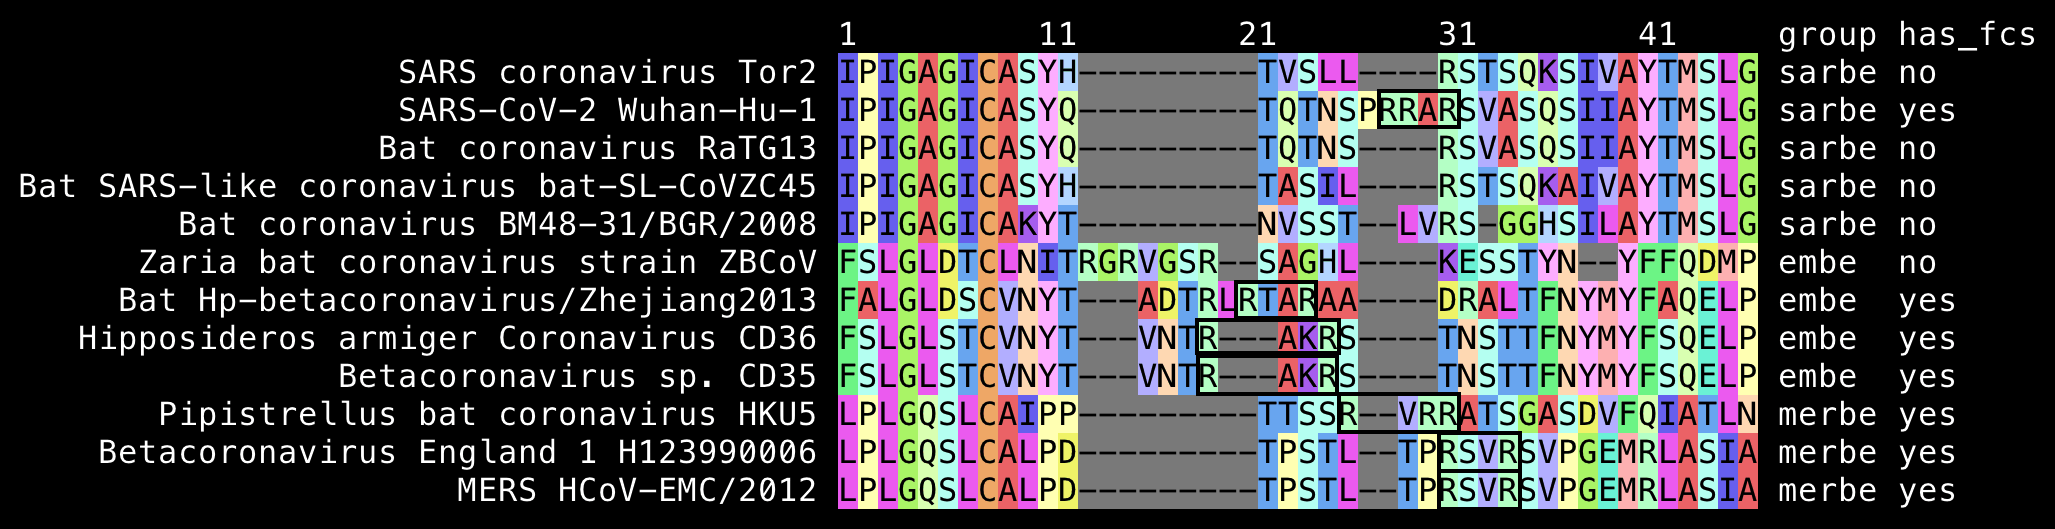
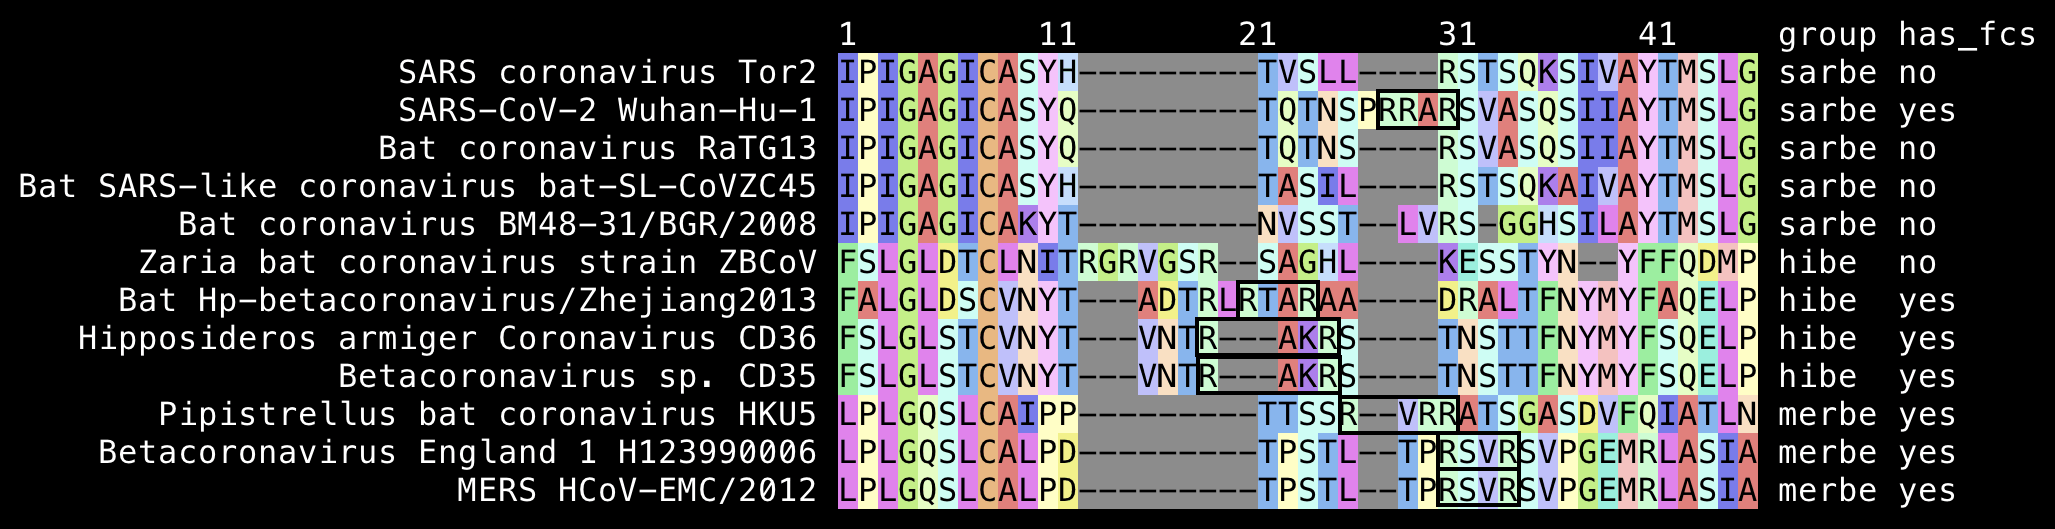
a

Changed region(s): [[0.4049, 0.0907, 0.9032, 0.9679], [0.872, 0.4839, 0.9032, 0.5142]]

diff --git a/fleming.html b/fleming.html
@@ -273,31 +273,37 @@ X-squared = 192.98, df = 1, p-value &lt; 2.2e-16
 <div class="width11">
 <img src="i/fleming-vax.png">
 </div>
-<p>There were 8 cases out of 17,411 people in the vaccine group and 162 cases out of 17,511 people in the placebo group, so common sense should've dictated that the difference between the groups was statistically significant, and Fleming should've noticed there was something wrong with his calculation because he only got a p-value of about 0.24.</p>
-<p>His contingency matrix has two columns labeled <span class="quote">&quot;observed&quot;</span> and <span class="quote">&quot;expected&quot;</span>, where the <span class="quote">&quot;observed&quot;</span> column shows the number of people with no case, even though I don't understand how he calculated the <span class="quote">&quot;expected&quot;</span> column.</p>
-<p>However the proper way to make the contingency matrix would've been to have one column for number of people with a COVID case and another column for the number of people with no COVID case, which gave me a p-value of about 9e-32 here:</p>
-<pre>cases=c(8,162);people=c(17411,17511)
-m=matrix(c(cases,people-cases),2)
-colnames(m)=c(&quot;case&quot;,&quot;no_case&quot;)
-rownames(m)=c(&quot;vaccine&quot;,&quot;placebo&quot;)
-m
-#         case no_case
-# vaccine    8   17403
-# placebo  162   17349
+<p>There were 8 cases out of 17,411 people in the vaccine group and 162 cases out of 17,511 people in the placebo group, so common sense should've dictated that the difference between the groups was statistically significant, and Fleming should've noticed that there was something wrong with his calculation because he only got a p-value of about 0.24.</p>
+<p>In his contingency matrix the <span class="quote">&quot;observed&quot;</span> column shows the number of people with no case, or for example <code>17411-8</code> = 17403 for Pfizer. However I don't understand how he calculated the <span class="quote">&quot;expected&quot;</span> column. The numbers in parentheses show the result of <code>rowSums(m)%*%t(colSums(m))/sum(m)</code> (for example <code>34652*34752/69503</code> = 17326.25 for the top left square).</p>
+<p>However the proper way to make the contingency matrix would've been to have one column for the number of people with a COVID case and another column for the number of people with no COVID case. It gave me a p-value of about 9e-32 here:</p>
+<pre>&gt; cases=c(8,162);people=c(17411,17511)
+&gt; m=cbind(case=cases,no_case=people-cases)
+&gt; rownames(m)=c(&quot;Pfizer&quot;,&quot;placebo&quot;)
+&gt; m
+        case no_case
+Pfizer     8   17403
+placebo  162   17349
+&gt; chisq.test(m) # p-value shown as `&lt;2.2e-16` due to limit of floating point precision
+  Pearson&#39;s Chi-squared test with Yates&#39; continuity correction
 
-chisq.test(m) # p-value shown as `&lt;2.2e-16` due to limit of floating point precision
-#
-#   Pearson&#39;s Chi-squared test with Yates&#39; continuity correction
-#
-# data:  m
-# X-squared = 137.5, df = 1, p-value &lt;2.2e-16
+data:  m
+X-squared = 137.5, df = 1, p-value &lt; 2.2e-16
 
-.Machine$double.eps # smallest positive float x where 1+x!=1
+&gt; .Machine$double.eps # smallest positive float `x` where `1+x!=1`
 # [1] 2.220446e-16
-
-chisq.test(m)$p.value # real p-value is much lower than 2.2e-16
-# 9.395097e-32</pre>
-<p>Kevin McCairn also got a similar p-value when he used MATLAB to do a chi-squared test (the reason why McCairn said he got a lower p-value than me was because my p-value was shown as 2.2e-16 by R even though it was actually about 9e-32 which was similar to McCairn's result): [<a href="https://x.com/NestCommander/status/1882185862257242263">https://x.com/NestCommander/status/1882185862257242263</a>]</p>
+&gt; chisq.test(m)$p.value # p-value is much lower than 2.2e-16
+[1] 9.395097e-32
+&gt; expected=rowSums(m)%*%t(colSums(m))/sum(m)
+&gt; expected
+        case  no_case
+[1,] 84.7566 17326.24
+[2,] 85.2434 17425.76
+&gt; sum((m-expected)^2/expected) # manual calculation without correction
+[1] 139.3046
+&gt; chisq.test(m,correct=F)$stat # matches manual calculation
+X-squared
+ 139.3046</pre>
+<p>Kevin McCairn also got a similar p-value when he used MATLAB to do a chi-squared test (but the reason why McCairn said he got a lower p-value than me was because my p-value was shown as 2.2e-16 by R even though it was actually about 9e-32 which was similar to McCairn's result): [<a href="https://x.com/NestCommander/status/1882185862257242263">https://x.com/NestCommander/status/1882185862257242263</a>]</p>
 <blockquote>
 <p>Richard I'm not following the logic, not that I trust Pfizer data, but the appropriate use of the Chi-squared in the tables above would be calculated as follows (MATLAB code below), I get a smaller P Value than Henjin, but I did no post-hoc corrections as it's only a 2x2 contingency table, and the result is highly significant.</p>
 <pre>% Data
@@ -349,7 +355,7 @@ P=7.89×10−32</pre>
 <div class="width7">
 <img src="i/fleming-prra-2.png">
 </div>
-<p>Many merbecoviruses like MERS and HKU5 also have a furin cleavage site at the S1/S2 junction. Hibecoviruses are a small subgenus of betacoronaviruses that are the closest subgenus to sarbecoviruses. I believe there are currently only 4 published hibecovirus sequences (Hp-betacoronavirus/Zhejiang2013, Zaria bat coronavirus strain ZBCoV, CD35, and CD36), but all of them except ZBCoV have an FCS at the S1/S2 junction:</p>
+<p>Many merbecoviruses like MERS and HKU5 also have a furin cleavage site at the S1/S2 junction. The closest relative of sarbecoviruses are hibecoviruses, which are a small subgenus of betacoronaviruses that I believe currently includes only 4 published virus sequences (which are Hp-betacoronavirus/Zhejiang2013, Zaria bat coronavirus ZBCoV, CD35, and CD36). But all of them except ZBCoV have an FCS at the S1/S2 junction:</p>
 <div class="width10">
 <img src="i/fleming-fcs.png">
 </div>
@@ -357,13 +363,13 @@ P=7.89×10−32</pre>
 <a href=#Claim_that_the_odds_of_an_FCS_occurring_spontaneously_is_3_21e_11 id=Claim_that_the_odds_of_an_FCS_occurring_spontaneously_is_3_21e_11>Claim that the odds of an FCS occurring spontaneously is 3.21e-11</a>
 </h3>
 <p>Fleming wrote: <span class="quote">&quot;The odds of such a cleavage site occurring spontaneously (naturally) is 3.21 x 10<sup>-11</sup>. [...] Simply put, the Furin cleavage site <span class="quote">'critical'</span> for the SARS-CoV-2 viruses' entry into human cells resulting in disease and death, is astronomical. It has it not found in any other coronavirus at the critical S1/S2 location, and the US Government which has funded the Gain-of-Function research, owns the patent for this Furin Protease Cleavage Site, also associated with the HIV glycoprotein (HIV gp120) 120 (sialic acid raft receptor) and cancer progression.&quot;</span></p>
-<p>The figure of 3.21e-11 comes from the paper by Ambati et al. about the Modernagate theory by Jikkyleaks. 3.21e-11 is not the the odds of an FCS occurring naturally but the odds that a given 19-base sequence would be contained both in a random 30,000-base sequence and in a set of 24,712 random 3,300-base sequences: [<a href="https://frontiersin.org/journals/virology/articles/10.3389/fviro.2022.834808/full">https://frontiersin.org/journals/virology/articles/10.3389/fviro.2022.834808/full</a>]</p>
+<p>The figure of 3.21e-11 comes from the paper by Ambati et al. about Modernagate. 3.21e-11 is not the the odds of an FCS occurring naturally but the odds that a given 19-base sequence would be contained both in a random 30,000-base sequence and in a set of 24,712 random 3,300-base sequences: [<a href="https://frontiersin.org/journals/virology/articles/10.3389/fviro.2022.834808/full">https://frontiersin.org/journals/virology/articles/10.3389/fviro.2022.834808/full</a>]</p>
 <blockquote>
 <p><img src=i/fleming-modernagate-1.jpg class=width6><br> Figure 2. Calculations of the probability of natural occurrence of the 19nt sequence under study. The SARS-CoV-2 genome is ~30,000 nucleotides long (P1). The patented sequence is ~3,300 nucleotides long (P2). The patented library encompasses 24'712 sequences of varying lengths with median length being in the range of 3,300 nucleotides. Conventional probability calculations are given of the probability of the presence of a 19-nucleotide sequence in the human genome and in one of the patented library sequences.</p>
 </blockquote>
-<p>If you search for the region surrounding the FCS insert in the patent BLAST database, the top matches include four near-identical sequences a patent filed by Moderna which contained codon-optimized versions of nearly all human protein coding genes. All four sequences code for a codon-optimized human MSH3 gene (<a href=https://www.ncbi.nlm.nih.gov/nucleotide/LC959694.1>LZ959694</a>, <a href=https://www.ncbi.nlm.nih.gov/nucleotide/LC959695.1>LZ959695</a>, <a href=https://www.ncbi.nlm.nih.gov/nucleotide/HZ246785.1>HZ246785</a>, and <a href=https://www.ncbi.nlm.nih.gov/nucleotide/HZ246786.1>HZ246786</a>). The patent contains a total of 33,915 sequences whose average length is about 1,539 bases and median length is about 1,238 bases, so I don't know where Ambati et al. got their numbers of 24,712 sequences with a median length of about 3,300 bases.</p>
-<p>But anyway, Ambati should've instead calculated the likelihood that a random 19-base sequence would have an exact match to one or more sequences in the Moderna patent database. And they could've multiplied the likelihood by 7 because there's 7 different ways to select a 19-base segment that contains the entire 12-base FCS insert and a total of 7 surrounding bases on either side.</p>
-<p>Ambati calculated the likelihood that the exact same 19-base sequences that was found in SARS-CoV-2 was also found in the Moderna patent. But there's also many other possible sequences that could've coded for a furin cleavage site in SARS-CoV-2, because they only need to have two arginine residues with two other residues in between, and they can be located at multiple different spots near the S1/S2 junction.</p>
+<p>If you search for the region surrounding the FCS insert in the patent BLAST database, the top matches include four near-identical sequences a patent filed by Moderna which contained codon-optimized versions of nearly all human protein coding genes. All four sequences code for a codon-optimized human MSH3 gene (<a href=https://www.ncbi.nlm.nih.gov/nucleotide/LC959694.1>LZ959694</a>, <a href=https://www.ncbi.nlm.nih.gov/nucleotide/LC959695.1>LZ959695</a>, <a href=https://www.ncbi.nlm.nih.gov/nucleotide/HZ246785.1>HZ246785</a>, and <a href=https://www.ncbi.nlm.nih.gov/nucleotide/HZ246786.1>HZ246786</a>). The patent contains a total of 33,915 sequences whose average length is about 1,539 bases and median length is about 1,238 bases, so I don't know where Ambati et al. got their number of 24,712 sequences, and their guess that the median length of the sequences in the patent was about 3,300 bases was not right either.</p>
+<p>But anyway, Ambati et al. should've instead calculated what the likelihood was that a random 19-base sequence would have an exact match to one or more sequences in the patent database on BLAST. And they could've multiplied the likelihood by 7 because there's 7 different ways to select a 19-base segment that contains the entire 12-base FCS insert and a total of 7 surrounding bases on either side.</p>
+<p>Ambati et al. calculated the likelihood that the exact same 19-base sequences that was found in SARS-CoV-2 was also found in the Moderna patent. But there's also many other possible sequences that could've coded for a furin cleavage site in SARS-CoV-2, because they only need to have two arginine residues with two other residues in between, and they can be located at multiple different spots near the S1/S2 junction.</p>
 <p>There's 6 different codons for arginine so there's many different ways to introduce mutations that produce arginine residues. For example in RaTG13 the codons after the spot where Wuhan-Hu-1 has <code>RRAR</code> are <code>agt gta gct agt</code> which codes for <code>SVAS</code>, but it would change to <code>RVAR</code> if the third nucleotide was changed to <code>A</code> or <code>G</code> and the 12th nucleotide was changed to <code>A</code> or <code>G</code>.</p>
 <p>The likelihood that the 12-base FCS would occur by chance is not even the same as the likelihood that the 12-base FCS insert and 7 surrounding bases would occur by chance. And the likelihood that the FCS insert would occur naturally is not the same as the likelihood that it would occur by chance, because certain mutations might be favored by natural selection. And the likelihood that the 19-base region happened to match the specific Moderna patent is not the same as the likelihood that the 19-base region would have occurred naturally.</p>
 <p>In order to estimate the likelihood that the 12-base insert and a total of 7 surrounding bases from either side would have an exact match in the patent database by chance, you can go here: <a href="https://blast.ncbi.nlm.nih.gov/Blast.cgi?PROGRAM=blastn">https://blast.ncbi.nlm.nih.gov/Blast.cgi?PROGRAM=blastn</a>. Set the query sequence to <code>actaattctcctcggcgggcacgtag</code>, which consists of the 12-base FCS insert, 7 bases before it, and 7 bases after it. Then switch the database to patent sequences, insert <span class="quote">&quot;SARS-CoV-2 (taxid:2697049)&quot;</span> as the organism and click the exclude checkbox next to it, under algorithm parameters set maximum results to 1000, and click <span class="quote">&quot;BLAST&quot;</span>. When I ran the query, the first 392 matches were mostly matches to SARS-CoV-2 that were not removed out by the species filter, but the matches to the Moderna patent sequences were listed on rank 393 to 396 (JP 2017197545-A/7090, 2017197545-A/7089, JP 2015518816-A/7090, and JP 2015518816-A/7089). However the E value of all matches was about 0.34, which means that about 0.34 similarly close matches are expected to occur by chance in the patent database:</p>
@@ -412,7 +418,7 @@ MN908947.3_sliding:4459-4477    26445                   1172                    
 MN908947.3_sliding:8293-8311    30068                   1160                            CTATAACAAAGTTGAAAAC
 MN908947.3_sliding:23601-23619  11651                   2760                            CTACGTGCCCGCCGAGGAG</pre>
 <p>Jikky wrote this about the 19-base segment: <span class="quote">&quot;In order for that sequence to have arisen in that virus, the virus which was manufactured with its HIV inserts, had to have had been infected into patented cell lines supplied by Moderna that had that unique sequence not seen in any other virus.&quot;</span> [<a href="https://www.arkmedic.info/p/how-to-blast-your-way-to-the-truth">https://www.arkmedic.info/p/how-to-blast-your-way-to-the-truth</a>] However it's possible for bioweaponeers to edit the genome as a text file and then synthesize the whole genome, so they don't have to find a cell line which contains the 12-base segment they want to insert, then infect that cell line with the virus a zillion times until the right piece of the cell line's genome happens to get inserted to the right spot of the viral genome by chance. In the comments of Jikky's Substack post, Jennifer Smith who is a PhD virologist also said that <span class="quote">&quot;the <span class="quote">'accidental'</span> nature you implied is less likely than purposeful construction&quot;</span>. [<a href="https://www.arkmedic.info/p/how-to-blast-your-way-to-the-truth/comment/4545048">https://www.arkmedic.info/p/how-to-blast-your-way-to-the-truth/comment/4545048</a>]</p>
-<p>Kevin McKernan was blocked by Jikkyleaks in 2022 after McKernan debunked Jikky's Modernagate theory in this thread: <a href="https://x.com/Kevin_McKernan/status/1484987210508255233">https://x.com/Kevin_McKernan/status/1484987210508255233</a>. I highly recommend reading the whole thread. McKernan said that Jikkyleaks had dumped his reputation on a Bible codes interpretation of BLAST: [<a href="https://twitter.com/search?q=from%3Akevin_mckernan+to%3Ajikkykjj+since:2022-2-10&f=live">https://twitter.com/search?q=from%3Akevin_mckernan+to%3Ajikkykjj+since:2022-2-10&amp;f=live</a>]</p>
+<p>Kevin McKernan was blocked by Jikkyleaks in 2022 after McKernan debunked Jikky's Modernagate theory in this thread: <a href="https://x.com/Kevin_McKernan/status/1484987210508255233">https://x.com/Kevin_McKernan/status/1484987210508255233</a>. I recommend reading the whole thread. McKernan said that Jikkyleaks had dumped his reputation on a Bible codes interpretation of BLAST: [<a href="https://twitter.com/search?q=from%3Akevin_mckernan+to%3Ajikkykjj+since:2022-2-10&f=live">https://twitter.com/search?q=from%3Akevin_mckernan+to%3Ajikkykjj+since:2022-2-10&amp;f=live</a>]</p>
 <div class="width6">
 <img src="i/fleming-modernagate-tweets.png">
 </div>
@@ -552,7 +558,7 @@ $ seqkit seq -g sarbe.fa|seqkit locate -dip GTGARATGGTCATGTGTGGCGG|sed 1d|wc -l
 <h3>
 <a href=#Chromosomes_of_viruses id=Chromosomes_of_viruses>Chromosomes of viruses</a>
 </h3>
-<p>Fleming said: <span class="quote">&quot;In 2001, Ralph Baric at the University of North Carolina gets a patent. It was paid for by National Institutes of Health Research. And its specific goal was organizing <span class="red">chromosomes of viruses</span>. He liked transmissible gastroenteritis virus at the time - it was what he was working on - infectious bronchitis, and coronaviruses.&quot;</span> [<a href="https://www.flemingmethod.com/gain-of-function">https://www.flemingmethod.com/gain-of-function</a>, presentation in Phoenix, Arizona, time 15:27]</p>
+<p>Fleming said: <span class="quote">&quot;In 2001, Ralph Baric at the University of North Carolina gets a patent. It was paid for by National Institutes of Health Research. And its specific goal was organizing <span class="red">chromosomes of viruses</span>. He liked transmissible gastroenteritis virus at the time - it was what he was working on - infectious bronchitis, and coronaviruses.&quot;</span> [<a href="https://www.flemingmethod.com/gain-of-function">https://www.flemingmethod.com/gain-of-function</a>, presentation in Phoenix, time 15:27]</p>
 <p>However viruses obviously don't have chromosomes, even though the genomes of segmented viruses like influenza viruses are split into multiple segments akin to chromosomes in eukaryotes and prokaryotes. Fleming might have been confused by the title of the patent which was <span class="quote">&quot;Directional assembly of large viral genomes and chromosomes&quot;</span> (but it obviously meant <span class="quote">&quot;large viral genomes&quot;</span> and <span class="quote">&quot;chromosomes of other organisms&quot;</span>). [<a href="https://patents.google.com/patent/US4683195A/en">https://patents.google.com/patent/US4683195A/en</a>]</p>
 <p>The authors of the patent wrote that their method of assembly can also be applied to chromosomes of bacteria, plants, and animals: <span class="quote">&quot;The genomes of viruses, bacteria, plants and other organisms (including humans) are being systematically cloned and sequenced. Methods are needed to directionally assemble smaller DNA subclones into full-length, functionally intact genomes or chromosomes of these organisms. Such methods could allow for the precise genetic manipulation of individual chromosomes in whole plants and animals and the construction of artificial chromosomes for gene therapy.&quot;</span></p>
 <h3>
@@ -560,7 +566,7 @@ $ seqkit seq -g sarbe.fa|seqkit locate -dip GTGARATGGTCATGTGTGGCGG|sed 1d|wc -l
 </h3>
 <p>Fleming said: <span class="quote">&quot;But once you know you have a new virus, what do you do? Well you have to get cell tissue out, like those bronchoalveolar lavages. You clean up the garbage, you get rid of the other material, you get rid of the bacteria, all the mucus, all the garbage that's in there, and you're left with genetic code sequences.&quot;</span> [<a href="https://www.flemingmethod.com/gain-of-function">https://www.flemingmethod.com/gain-of-function</a>, part 2 of presentation in Tampa, time 11:09] However in the paper by Wu et al. which described the first published genome of SARS-CoV-2, the authors did metagenomic sequencing where they sequenced all genetic material in a sample of bronchoalveolar fluid but they didn't remove human or bacterial genetic material. Their STAT results show that only about 0.2% of their reads were identified as viral. [<a href="https://trace.ncbi.nlm.nih.gov/Traces/?view=run_browser&page_size=10&acc=SRR10971381&display=analysis">https://trace.ncbi.nlm.nih.gov/Traces/?view=run_browser&amp;page_size=10&amp;acc=SRR10971381&amp;display=analysis</a>] About half of their reads consist of only N bases because human reads were masked with N bases for privacy reasons. Supplementary Table 1 of the paper shows that 49 out of 50 of the most abundant MEGAHIT contigs consisted of fragments of the genomes of bacteria. [<a href="https://www.nature.com/articles/s41586-020-2008-3#Sec13">https://www.nature.com/articles/s41586-020-2008-3#Sec13</a>]</p>
 <p>Next Fleming said: <span class="quote">&quot;Now frequently it's broken into pieces and you have to put it together like a puzzle. But you can do that just like a puzzle, and that's called Sanger sequencing.&quot;</span> But the procedure of assembling the reads like a puzzle is not called Sanger sequencing but it's called assembly. Wu et al. did not use Sanger sequencing, but they did next-generation sequencing with Illumina MiniSeq. Sanger sequencing is used only rarely to sequence SARS-CoV-2. The NCBI's Sequence Read Archive has raw reads of about 7 million sequencing runs where the organism is listed as SARS-CoV-2, but I haven't found a single run at SRA where Sanger sequencing was used to sequence the entire genome. But I have only found runs where fragments of the virus like a part of the spike protein are sequenced with Sanger sequencing. [<a href="https://www.ncbi.nlm.nih.gov/sra/?term=sars-cov-2+%22sanger+sequencing%22">https://www.ncbi.nlm.nih.gov/sra/?term=sars-cov-2+%22sanger+sequencing%22</a>] And Sanger sequencing is sometimes also used to sequence amplicons produced by PCR tests.</p>
-<p>Next Fleming described PCR testing like this: <span class="quote">&quot;And so the spike protein was chosen. And you already saw that we know where the spike protein is in this sequence. And so you look for the beginning of it, and you find about 12 to 18 pieces - amino acids - rather nucleotide bases - that start the spike protein, and that's called the forward primer. And you look for the end of it and you say, well, where's the end? And you look for a roughly 15 to 18 of those, and that's called a reverse primer, which reads the opposite direction.&quot;</span> But the spike protein of Wuhan-Hu-1 is 3,822 bases long if you include the stop codon, but typically in PCR tests for detecting SARS-CoV-2 the distance between the forward and reverse primers is only about 100 to 200 bases. The forward and reverse primers don't have to be located at opposite ends of the same gene or even within the same gene. Also PCR primers are almost always longer than 12 bases. In common PCR tests for SARS-CoV-2, the length of the primers ranges from about 16 to 26 bases.</p>
+<p>Next Fleming described PCR testing like this: <span class="quote">&quot;And so the spike protein was chosen. And you already saw that we know where the spike protein is in this sequence. And so you look for the beginning of it, and you find about 12 to 18 pieces - amino acids - rather nucleotide bases - that start the spike protein, and that's called the forward primer. And you look for the end of it and you say, well, where's the end? And you look for a roughly 15 to 18 of those, and that's called a reverse primer, which reads the opposite direction.&quot;</span> But the spike protein of Wuhan-Hu-1 is 3,822 bases long if you include the stop codon, but typically in PCR tests for detecting SARS-CoV-2 the distance between the forward and reverse primers is only about 100 to 200 bases. The forward and reverse primers don't have to be located at opposite ends of the same gene or even within the same gene. Also PCR primers are almost always longer than 12 bases. In PCR tests for SARS-CoV-2, the length of the primers ranges from about 18 to 26 bases.</p>
 <h2>
 <a href=#Book_Is_COVID_19_a_Bioweapon id=Book_Is_COVID_19_a_Bioweapon>Book Is COVID-19 a Bioweapon</a>
 </h2>
@@ -716,7 +722,7 @@ $ seqkit seq -s HIV1_REF_2023_env_PRO.fasta|cut -c675-678|sort|uniq -c|sort -nr
 <div class="width6">
 <img src="i/fleming-perez-2.png">
 </div>
-<p>In one of his presentations Fleming said: <span class="quote">&quot;Luc Montagnier - who was a friend of mine - passed away on the 8th of February, he and Jean-Claude Perez did this work to show the HIV and SIV inserts that they found. PRRA, four proteins, each one has three nucleotide bases. That's 12 nucleotide bases. They found 1,770-nucleotide-base inserts. That's not naturally occurring. They occur one nucleotide base at a time.&quot;</span> [<a href="https://www.flemingmethod.com/gain-of-function">https://www.flemingmethod.com/gain-of-function</a>, video from Phoenix, Arizona, time 43:48] But again Perez's 1,770-base region is not any kind of an insert, but it consists of the entire S2 subunit of the spike protein (plus 3 or 6 extra ghost bases that were likely the due to an error in calculating the length of the S2 subunit).</p>
+<p>In one of his presentations Fleming said: <span class="quote">&quot;Luc Montagnier - who was a friend of mine - passed away on the 8th of February, he and Jean-Claude Perez did this work to show the HIV and SIV inserts that they found. PRRA, four proteins, each one has three nucleotide bases. That's 12 nucleotide bases. They found 1,770-nucleotide-base inserts. That's not naturally occurring. They occur one nucleotide base at a time.&quot;</span> [<a href="https://www.flemingmethod.com/gain-of-function">https://www.flemingmethod.com/gain-of-function</a>, video from Phoenix, time 43:48] But again Perez's 1,770-base region is not any kind of an insert, but it consists of the entire S2 subunit of the spike protein (plus 3 or 6 extra ghost bases that were likely the due to an error in calculating the length of the S2 subunit).</p>
 <p>I have shown here why Perez's paper is complete junk: <a href=pradhan.html#May_2020_preprint_by_Perez_and_Montagnier>pradhan.html#May_2020_preprint_by_Perez_and_Montagnier</a>. He used nucleotide BLAST instead of protein BLAST like Pradhan, but he forgot to exclude matches that were on the wrong strand or wrong frame, which will cause the matches to be meaningless because they don't code for the same amino acids. His Table 1 contains 15 BLAST matches to HIV or SIV in SARS-CoV-2, but 10 of the matches are on the wrong strand and 2 of the remaining 5 matches are in the wrong frame:</p>
 <pre>sseqid    evalue nident length pident  sstrand SC2_frame HIV_frame right_strand_and_frame
 JN230738  1.3    16     16     100.000 plus    0         1         no
